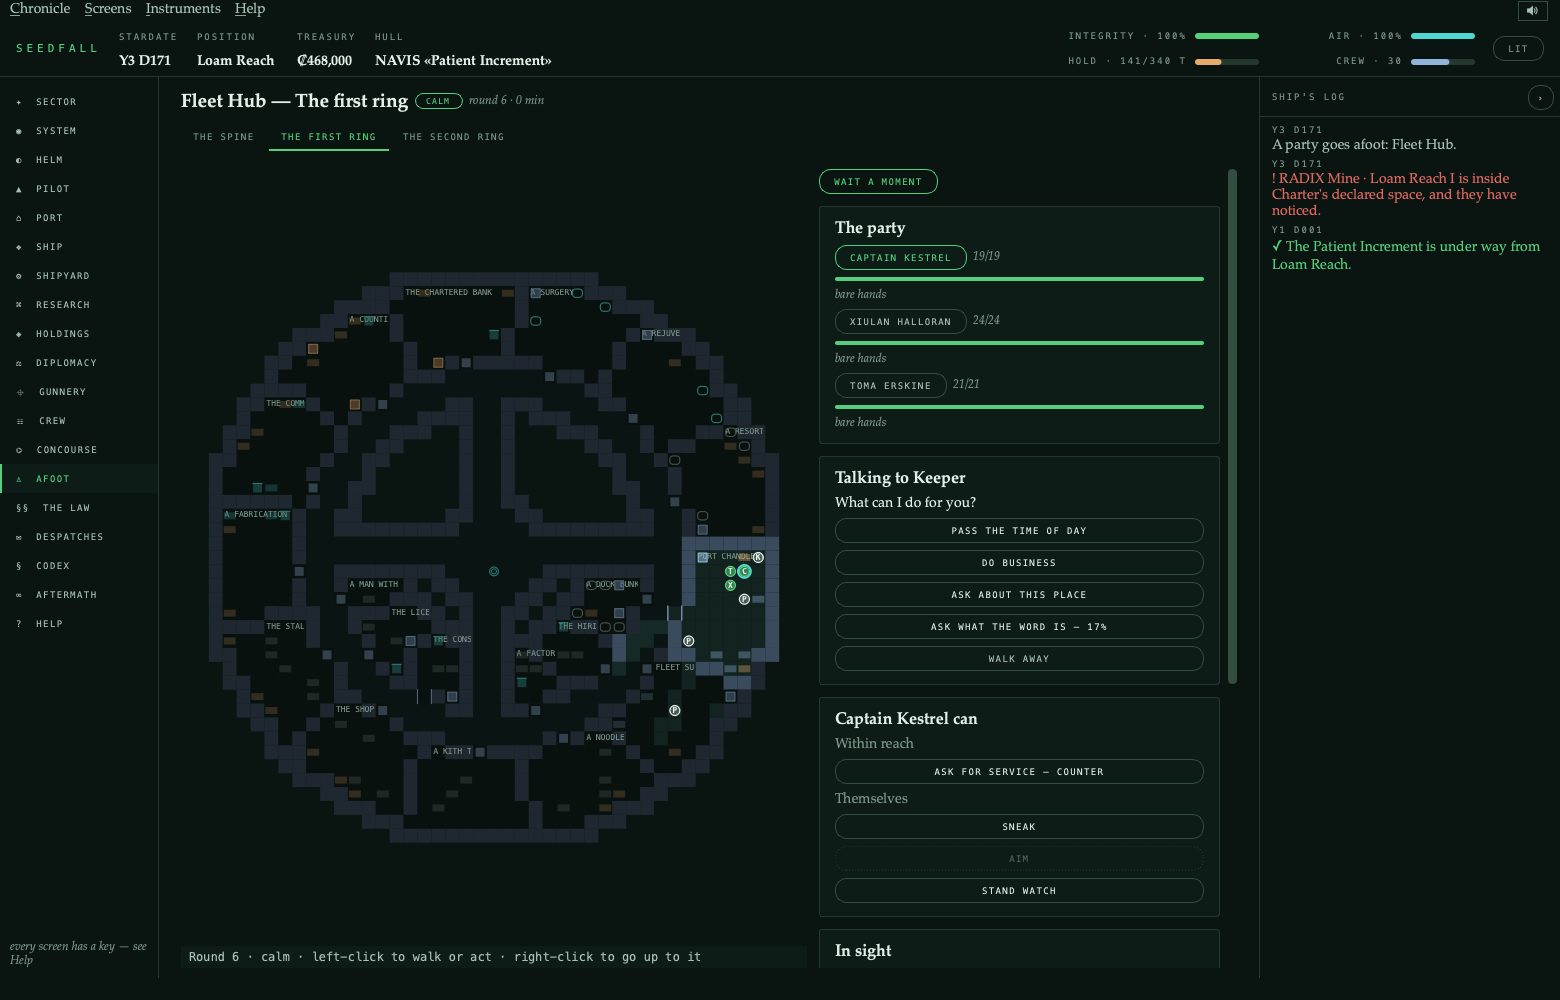
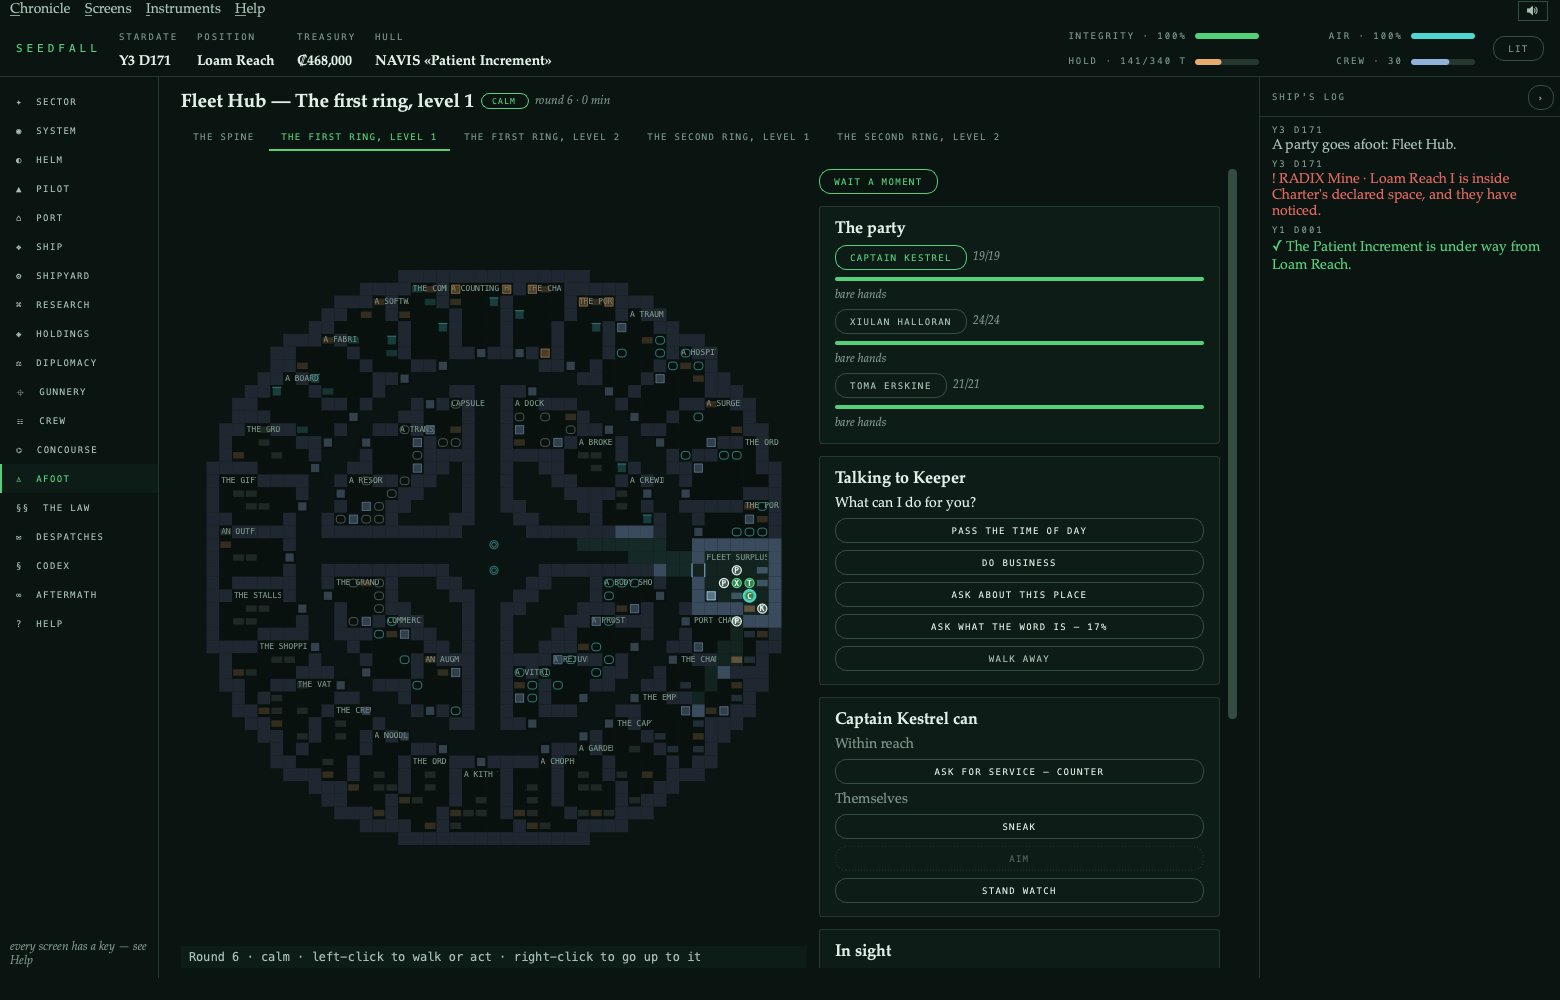
Retake the Afoot screenshots on the Fleet Hub's ring levels
The hub's rings are drawn at radius 22 (HUB_RING_R), narrow enough for the
screen to letter their rooms; each ring now takes two levels. Shots 21 and
24 retaken; the README caption follows.

Changed region(s): [[0.1231, 0.279, 0.5231, 0.837], [0.2462, 0.093, 0.3692, 0.155], [0.7692, 0.682, 0.8, 0.713]]

diff --git a/seedfall/sim/afoot_stationplan.py b/seedfall/sim/afoot_stationplan.py
@@ -35,8 +35,9 @@ ARM = 12
 #: How much of a habitation ring's radius is built: rooms, corridor, rooms.
 RIM = 13
 #: The radius a Fleet Hub's rings are drawn at. A ring does not grow to
-#: hold more; it has more levels.
-HUB_RING_R = 24
+#: hold more; it has more levels. 22 keeps a level narrow enough to be
+#: drawn at a size the screen letters its rooms at.
+HUB_RING_R = 22
 #: Floor a can's deck is drawn to hold before the can is given another.
 PER_DECK = 280
 #: What keeps a structure running goes on its plant deck.

diff --git a/seedfall/README.md b/seedfall/README.md
@@ -295,7 +295,7 @@ deck plans of the places the game already has.
 
 | A Fleet Hub's ring, walked | A dead hull, boarded |
 |---|---|
-| ![Talking to the keeper of a chandlery on the first ring of a Fleet Hub](../assets/seedfall/21-afoot-quay.png) | ![A boarding party in a raider's hulk, a raider in sight](../assets/seedfall/22-afoot-wreck.png) |
+| ![Talking to the keeper of a chandlery on level 1 of a Fleet Hub's first ring](../assets/seedfall/21-afoot-quay.png) | ![A boarding party in a raider's hulk, a raider in sight](../assets/seedfall/22-afoot-wreck.png) |
 | **Your own hull, in its own shape** | **A gaming wheel, in orbit** |
 | ![The upper deck of a NAVIS: an ellipse fatter aft, rooms along the keel](../assets/seedfall/23-afoot-hull.png) | ![The ring of a gaming wheel: hub, spokes, and the rim of rooms](../assets/seedfall/24-afoot-station.png) |
 

diff --git a/seedfall/SESSION_LOG.md b/seedfall/SESSION_LOG.md
@@ -1149,6 +1149,9 @@ for every screen). And Afoot draws a room for **every** listed door
 (`afoot_stationplan.levels`), a crowded dome digs galleries, a full keel
 station takes a second deck, and residential blocks follow the place's own
 headcount. `afootshapes` now walks every door of every place in a sector.
+The hub's rings are drawn at radius 22 (`HUB_RING_R`), narrow enough for
+the screen to letter their rooms, and the README's four Afoot shots were
+retaken on them.
 
 251 suites, 1,891 checks: one failure on the full run (no tripwire entry for
 the new `afoot_ways`), fixed, and it and the twelve nearest suites re-run
